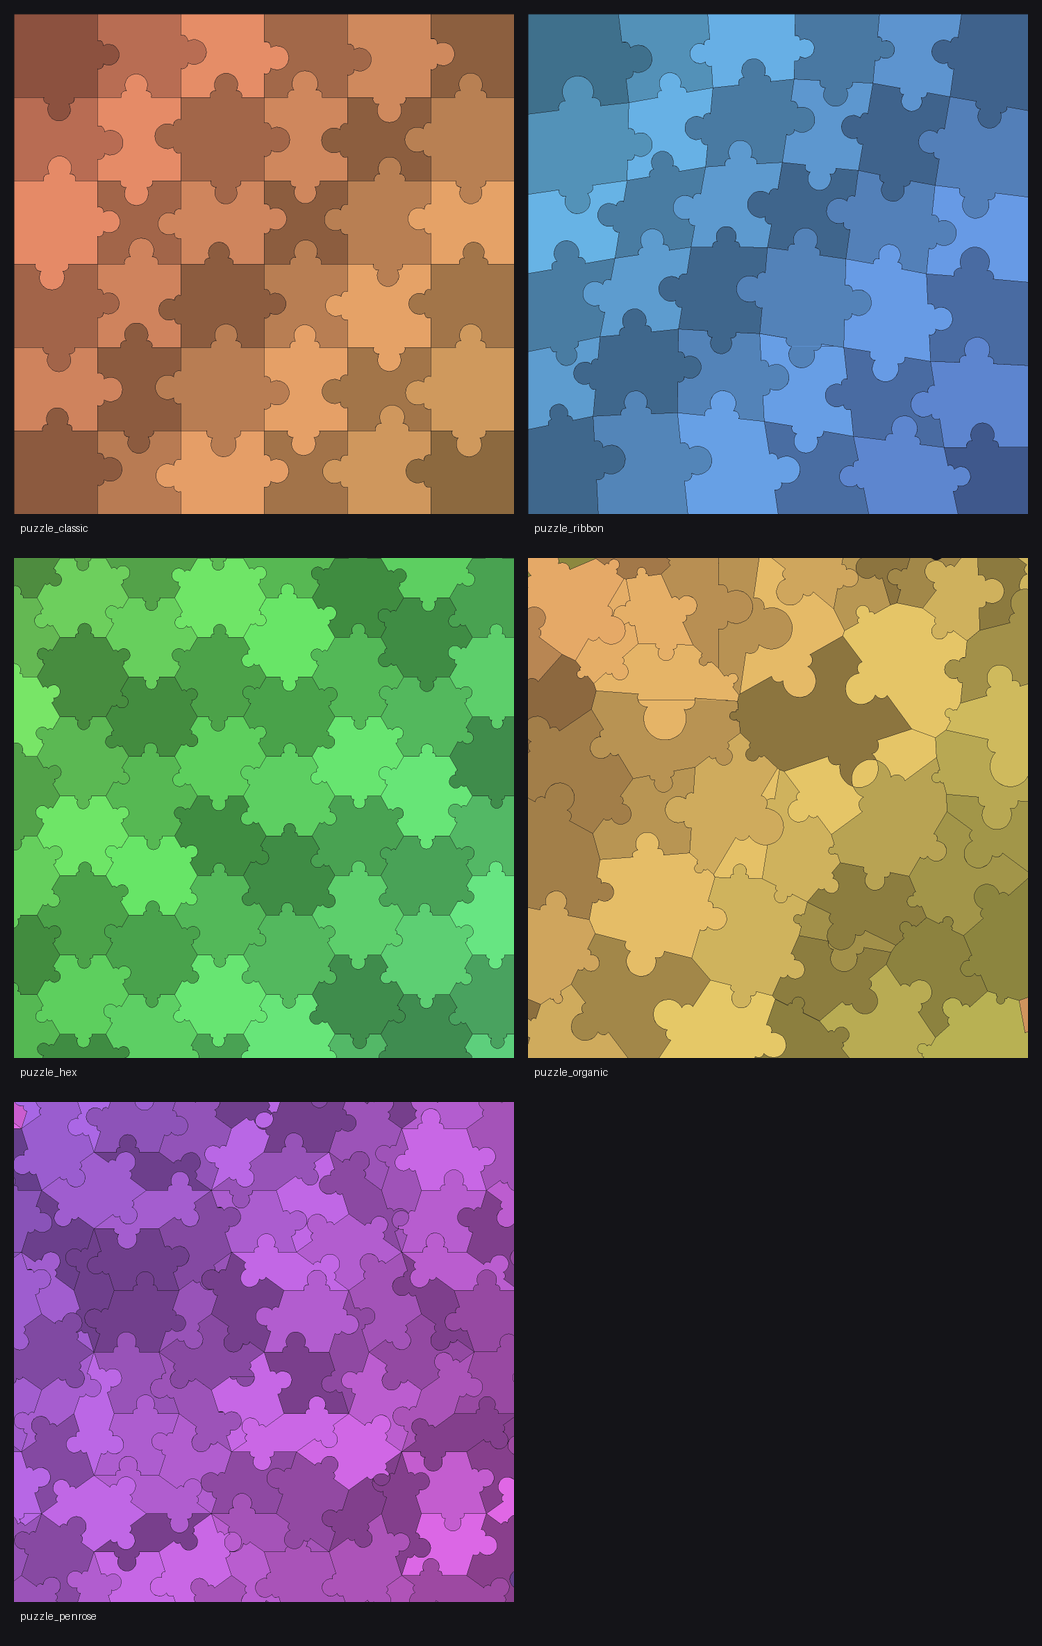
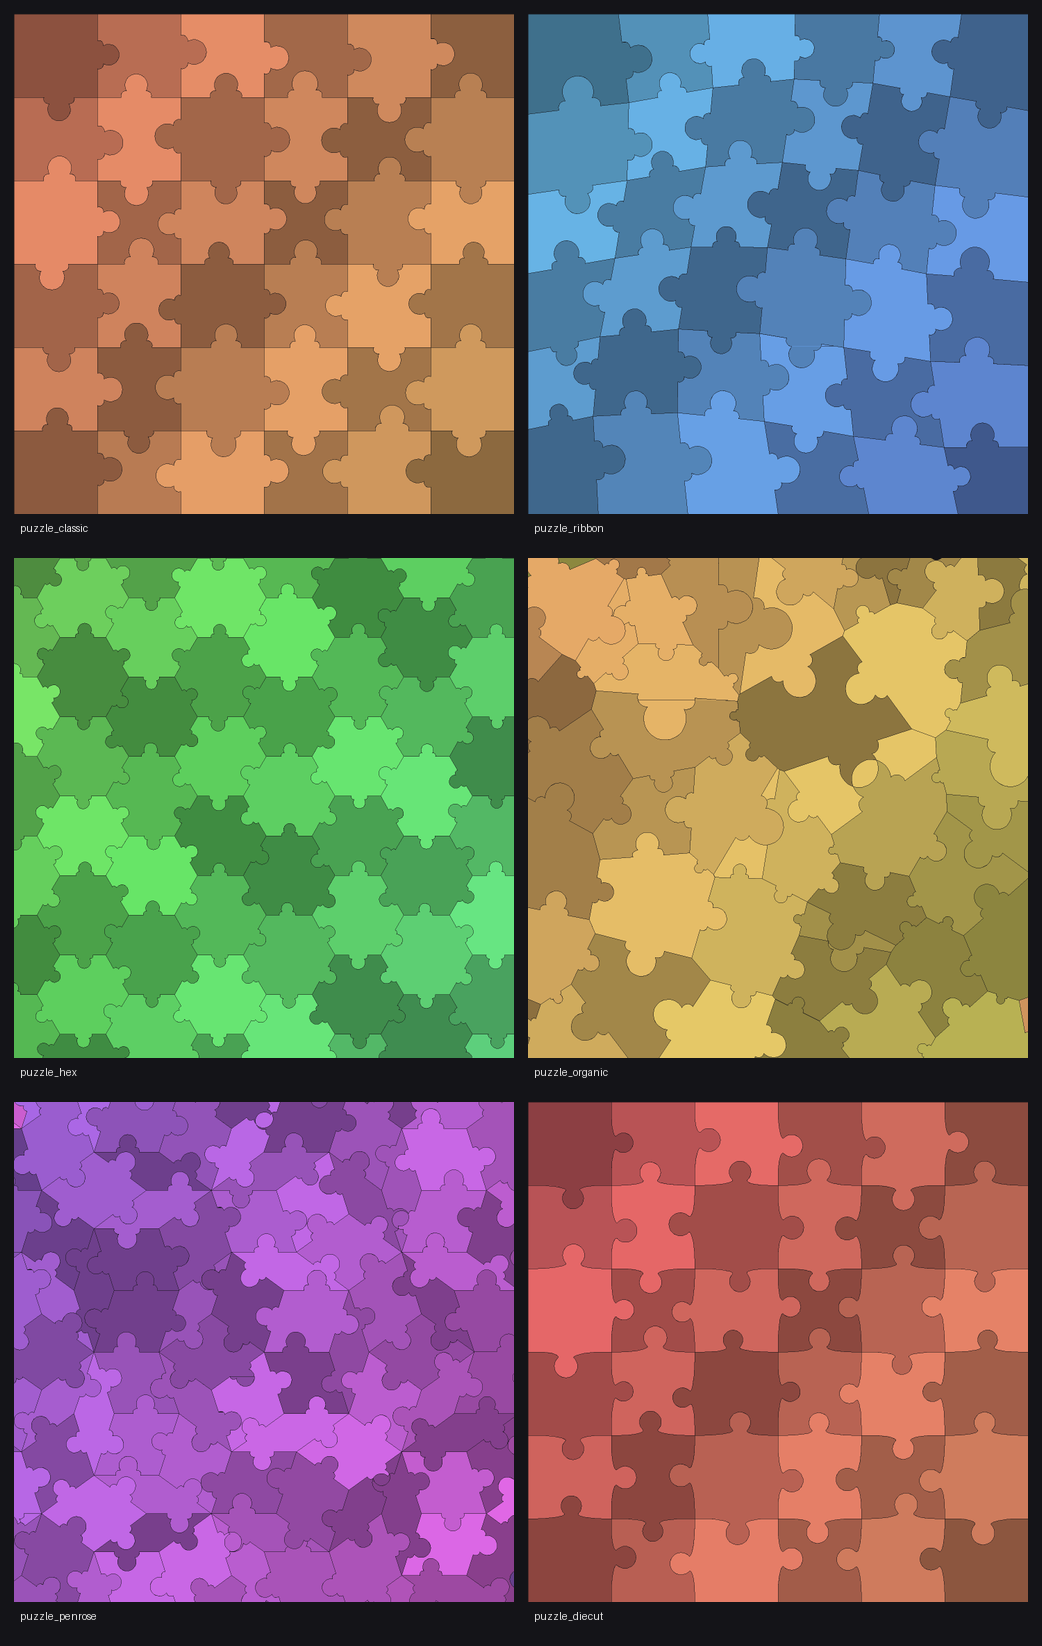
docs(proposals): profil die-cut puzzli wg referencji usera (holes=0)
Nowy panel puzzle_diecut: profil dopasowany do zdjec referencyjnych -
duza okragla glowka (luk 270 stopni, wejscie 225/wyjscie -45), waska
rozszerzana szyjka, esowate ramiona Bezierem stycznym do okregu glowki.

Pulapka opłacona: pierwsza wersja miala ujemny dip ramion od samego
narozniku - sasiednie polilinie przecinaly sie przy naroznikach => 295 px
dziur w rastrze pokrycia (bramka puli wymaga 0). Fix: ramiona wychodza z
naroznikow dokladnie po linii bazowej, wszystkie punkty kontrolne y>=0
(otoczka wypukla Beziera nie moze przeciac bazy). Zmierzone: holes=0.

Profil to funkcja per-krawedz - wchodzi bez zmian do classic/ribbon/hex.

Changed region(s): [[0.4914, 0.6507, 1.0, 0.9915]]

diff --git a/src/tools/gen_puzzle_proposals.py b/src/tools/gen_puzzle_proposals.py
@@ -75,6 +75,51 @@ def _arc_cw(c, rad, a0, a1, step=math.radians(9)):
             for k in range(n + 1)]
 
 
+def _bez(p0, p1, p2, p3, n=12):
+    out = []
+    for k in range(n + 1):
+        t = k / n
+        s = 1 - t
+        out.append((s**3 * p0[0] + 3 * s * s * t * p1[0] + 3 * s * t * t * p2[0] + t**3 * p3[0],
+                    s**3 * p0[1] + 3 * s * s * t * p1[1] + 3 * s * t * t * p2[1] + t**3 * p3[1]))
+    return out
+
+
+def _unit_tab_diecut(u1, u2):
+    """Die-cut profile matched to the user's reference photos (2026-07-19):
+    big round head (~26% of the edge), narrow neck, S-curved shoulders that
+    dip slightly into the neighbour before flaring into the head - the
+    classic cardboard-puzzle silhouette. Head = one circular arc entered at
+    225 deg and left at -45 deg (clockwise over the top), so the undercut is
+    strong; shoulders are cubics whose end handles are aligned with the
+    circle tangents (smooth join, no visible kink)."""
+    cx = 0.5 + (u1 - 0.5) * 0.10
+    sc = 0.90 + 0.20 * u2
+    R, H = 0.13 * sc, 0.16 * sc
+    C = (cx, H)
+    thL, thR = math.radians(225), math.radians(-45)
+    PL = (C[0] + R * math.cos(thL), C[1] + R * math.sin(thL))
+    PR = (C[0] + R * math.cos(thR), C[1] + R * math.sin(thR))
+    # clockwise travel tangent at angle th is (sin th, -cos th)
+    tL = (math.sin(thL), -math.cos(thL))
+    tR = (math.sin(thR), -math.cos(thR))
+    # Shoulders leave the corners EXACTLY along the baseline and all their
+    # Bezier control points keep y >= 0 (convex-hull property: the curve can
+    # never cross the baseline). A first version pulled the shoulders into a
+    # negative dip like a real die-cut, but the dip started at the corner and
+    # neighbouring edge polylines crossed there: 295 hole px in the coverage
+    # raster (the pool gate demands 0). The flared neck + 270-degree head
+    # carry the reference look on their own.
+    shoulder_l = _bez((0.10, 0.0), (0.28, 0.0),
+                      (PL[0] - 0.05 * tL[0], PL[1] - 0.05 * tL[1]), PL)
+    shoulder_r = _bez(PR, (PR[0] + 0.05 * tR[0], PR[1] + 0.05 * tR[1]),
+                      (0.72, 0.0), (0.90, 0.0))
+    pts = [(0.0, 0.0)] + shoulder_l
+    pts += _arc_cw(C, R, thL, thR)
+    pts += shoulder_r + [(1.0, 0.0)]
+    return pts
+
+
 def _unit_tab(u1, u2):
     """Full edge polyline (0,0)..(1,0) with a jigsaw tab bumping to +y."""
     cx = 0.5 + (u1 - 0.5) * 0.10          # tab centre wanders a little
@@ -120,17 +165,17 @@ def _on_frame(a, b, size, eps=0.6):
     return False
 
 
-def _tab_edge(A, B, key):
+def _tab_edge(A, B, key, profile):
     sign, u1, u2 = _crc_units(key)
     L = math.hypot(B[0] - A[0], B[1] - A[1])
     ux, uy = (B[0] - A[0]) / L, (B[1] - A[1]) / L
     nx, ny = -uy, ux
     return [(A[0] + t * L * ux + sign * y * L * nx,
              A[1] + t * L * uy + sign * y * L * ny)
-            for t, y in _unit_tab(u1, u2)]
+            for t, y in profile(u1, u2)]
 
 
-def _assemble(polys, size, lmin, frame_rule=True):
+def _assemble(polys, size, lmin, frame_rule=True, profile=None):
     """Turn plain polygons into puzzle cells with per-edge shared tabs."""
     plines = {}
     for poly in polys:
@@ -145,7 +190,7 @@ def _assemble(polys, size, lmin, frame_rule=True):
             if L < lmin or (frame_rule and _on_frame(A, B, size)):
                 plines[k] = [A, B]
             else:
-                plines[k] = _tab_edge(A, B, k)
+                plines[k] = _tab_edge(A, B, k, profile or _unit_tab)
     cells = []
     for poly in polys:
         out = []
@@ -255,12 +300,16 @@ def _montage(panels, path, cols=2, cell=500, pad=14, label_h=30):
 
 
 PANELS = [
-    # (name, builder, lmin, frame_rule, hues)
-    ("puzzle_classic", _grid_polys, 50, True, (0.03, 0.10)),
-    ("puzzle_ribbon", _wavy_polys, 50, True, (0.55, 0.62)),
-    ("puzzle_hex", _hex_polys, 50, False, (0.30, 0.38)),
-    ("puzzle_organic", _organic_polys, 42, False, (0.08, 0.16)),
-    ("puzzle_penrose", _penrose_polys, 30, False, (0.75, 0.83)),
+    # (name, builder, lmin, frame_rule, hues, profile)
+    ("puzzle_classic", _grid_polys, 50, True, (0.03, 0.10), None),
+    ("puzzle_ribbon", _wavy_polys, 50, True, (0.55, 0.62), None),
+    ("puzzle_hex", _hex_polys, 50, False, (0.30, 0.38), None),
+    ("puzzle_organic", _organic_polys, 42, False, (0.08, 0.16), None),
+    ("puzzle_penrose", _penrose_polys, 30, False, (0.75, 0.83), None),
+    # 2026-07-19: die-cut profile matched to the user's reference photos;
+    # shown on the classic grid, but the profile drops into ribbon/hex too
+    # (the tab is a per-edge function - the lattice does not care).
+    ("puzzle_diecut", _grid_polys, 50, True, (0.98, 1.06), _unit_tab_diecut),
 ]
 
 
@@ -269,9 +318,9 @@ def main():
     out_dir = Path(__file__).resolve().parents[2] / "assets" / "proposals"
     out_dir.mkdir(parents=True, exist_ok=True)
     panels = []
-    for name, builder, lmin, frame_rule, (h0, h1) in PANELS:
+    for name, builder, lmin, frame_rule, (h0, h1), profile in PANELS:
         polys = [[tuple(p) for p in poly] for poly in builder()]
-        cells = _assemble(polys, SIZE, lmin, frame_rule)
+        cells = _assemble(polys, SIZE, lmin, frame_rule, profile)
         img = _draw_panel(cells, h0, h1)
         img.save(out_dir / f"{name}.png")
         panels.append((name, img))
